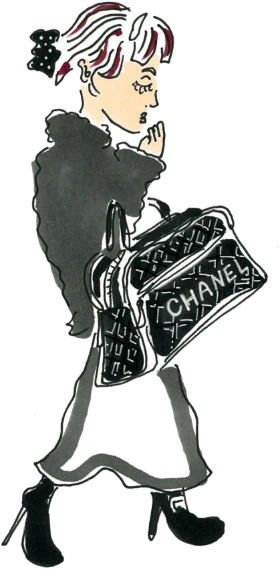
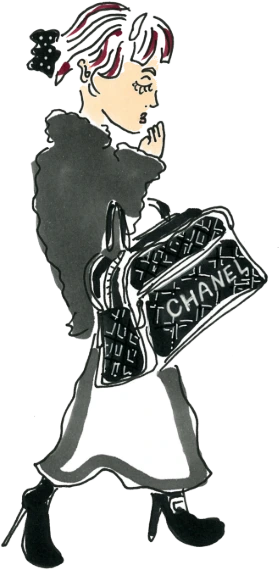
街：切り抜きを作り直し、全員を地面に立たせ、重なりを解く
【切り抜き】人の輪郭に沿って白いふちが残っていた。脇の下や脚のあいだ
など細く奥まったところほど太く出ていた。線を太らせて隙間を塞いでから
戻す作り方だったため、丸く膨らませる操作では奥まで戻りきらなかった。
作り方を変えた。本物の線だけを壁にして縁から流し込み、細い通り道を
切ってから、外側の中だけで戻す。輪郭のきわまで届き、顔には漏れない。
髪の隙間は背景が透ける。取り残しの小片も掃除する。

【配置】浮いて見えていたのは、背の高さが足もとの位置と合っていなかった
ため。h = 足もと − 0.4746（頭が水平線に並ぶ）に統一して全員を地面に
立たせた。

【重なり】PCは8人とも重なり0%。スマホは見える帯が 0.578 ぶんしかなく、
8人を読める大きさで並べると横幅の合計が帯を超えるため、手前に大きな人を
立たせるほうを取り、03 と 05 を外して6人にした。重なり0%、最小でも73%映る。

?v=9 に上げて読み直させる。

diff --git a/index.html b/index.html
@@ -417,7 +417,7 @@ addEventListener('load',function(){ clearTimeout(t); setTimeout(go,3500); });
   var layers=[].slice.call(g.querySelectorAll('.street i'));
   var small=matchMedia('(max-width:760px)').matches;
   /* ?v は焼き直した街を確実に読ませるための番号。焼き直したら上げる */
-  function src(n){ return 'naoto-assets/street/'+n+(small?'@700w':'')+'.webp?v=8'; }
+  function src(n){ return 'naoto-assets/street/'+n+(small?'@700w':'')+'.webp?v=9'; }
   function load(i){
     var el=layers[i];
     if(!el||el.dataset.loaded) return;
